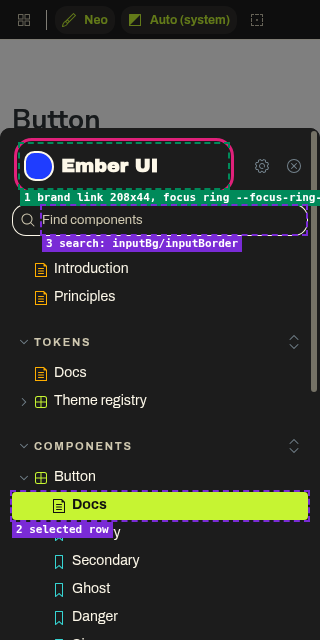
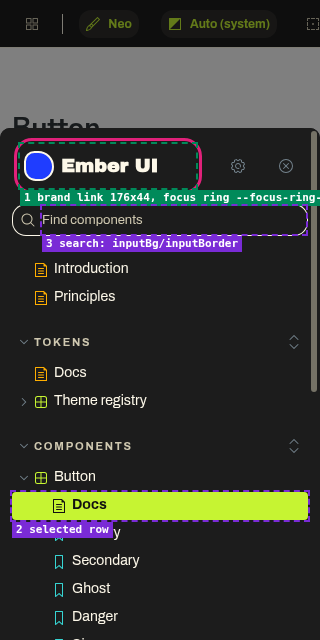
docs(storybook-brand): KI-2 boolean label fix, 44px hit areas below 600 (FU-SB-TOOLBAR-44), rulings
- manager-head.html: unselected boolean label uses --eb-boolean-label (neo --text-muted):
  9.18 light / 11.28 dark, up from #45's 3.39 / 5.11. Selected label unchanged (18.88 / 14.07).
- manager-head.html: below 600px, ::before 44x44 hit areas for every toolbar, bottom-bar,
  drawer-header and addon-panel Close control (title selectors, pinned to Storybook 8.6.19);
  bars 40 -> 48px; neo focus ring 3px offset 2. 600px and up unchanged.
- contrast.mjs: 56 pairs, 0 failures; 48 vs #45: 13 up, 35 same, 0 down.
- overrides.cjs: checks the overrides in a real build (104 checks pass; negative build exits 1).
- HANDOFF: section 4a, version pin line, KI-1 waived, KI-2 fixed, KI-3 waived at 600+,
  KI-4 filed as FU-STORYBOOK-DOCS-THEME, appPreviewBg non-blocking (CA). New shots at 320/599.
- Addon panel tabs left at 40px: flagged for a BED spike.

Supersedes f679274 and 1845ea6 as the head to review.

Author-bot: UX/UI Designer

diff --git a/docs/storybook-brand/mock/manager-head.html b/docs/storybook-brand/mock/manager-head.html
@@ -13,6 +13,41 @@
   /* The brand link: 44px target, neo focus ring (3px solid --focus-ring-color, 3px offset). Replaces Storybook's 1px colorSecondary border. */
   a:has(> .ember-brand) { display: inline-flex !important; align-items: center; min-height: 44px; min-width: 44px; margin: 0 !important; padding: 0 4px !important; border: 0 !important; border-radius: 12px !important; }
   a:has(> .ember-brand):focus-visible { outline: 3px solid var(--eb-focus) !important; outline-offset: 3px; }
+  /* KI-2: the boolean control's unselected label is Storybook's transparentize(.5, textColor), 3.39:1 light on the track.
+     Use neo --text-muted (via --eb-boolean-label) instead: #3d3d3d on #f3ecd2 is 9.18:1 light, #cfc8b0 on #111111 is 11.28:1 dark.
+     The selected label keeps Storybook's textColor (18.88 light, 14.07 dark). Selector targets Storybook 8.6.19's BooleanControl
+     markup (label > input[role=switch] + span[aria-hidden] False + span[aria-hidden] True); re-check it on any Storybook bump. */
+  label:has(> input[role="switch"]:checked) > span[aria-hidden="true"]:first-of-type,
+  label:has(> input[role="switch"]:not(:checked)) > span[aria-hidden="true"]:last-of-type { color: var(--eb-boolean-label) !important; }
+  /* FU-SB-TOOLBAR-44: 44px hit areas below 600px only; at 600 and up everything stays Storybook's 28px. Covers the top toolbar, the bottom
+     bar (navigation-menu and addon-panel toggles), the drawer header (About Storybook, Close menu) and the addon panel's Close button.
+     Storybook 8.6.19 gives these controls no role or aria-label, only title, so the selectors use title attributes plus the stable
+     .sb-bar and .sidebar-header classes (no hashed css-* classes). Method: a transparent ::before overlay grows each control's hit area
+     without changing what it paints (none of these controls has a ::before or ::after in 8.6.19, and all but the menu button are already
+     position: relative). 28px controls get inset -8px (44x44) and 8px side margins, so the pitch is at least 50px and neighbouring
+     overlays never overlap. The bars go from 40px to 48px because the top bar scrolls on x (overflow-y computes to hidden) and the addon
+     bar is overflow: hidden, either of which would clip a 44px overlay in 40px. The 216x40 menu button only needs 2px top and bottom. */
+  @media (max-width: 599px) {
+    main > .sb-bar,
+    .sb-bar:has(button[title="Open navigation menu"]),
+    .sb-bar:has(button[title="Close addon panel"]) { box-sizing: border-box; height: 48px; }
+    main > .sb-bar,
+    .sb-bar:has(button[title="Close addon panel"]) { padding-block: 4px; }
+    main > .sb-bar :is(button, a)[title],
+    .sb-bar button[title="Open addon panel"],
+    .sb-bar button[title="Close addon panel"],
+    .sidebar-header button:is([title="About Storybook"], [title="Close menu"]) { margin-inline: 8px; }
+    main > .sb-bar :is(button, a)[title]::before,
+    .sb-bar button[title="Open addon panel"]::before,
+    .sb-bar button[title="Close addon panel"]::before,
+    .sidebar-header button:is([title="About Storybook"], [title="Close menu"])::before { content: ""; position: absolute; inset: -8px; }
+    .sb-bar button[title="Open navigation menu"] { position: relative; }
+    .sb-bar button[title="Open navigation menu"]::before { content: ""; position: absolute; inset: -2px 0; }
+    .sb-bar :is(button, a)[title]:focus-visible,
+    .sidebar-header button:is([title="About Storybook"], [title="Close menu"]):focus-visible { outline: 3px solid var(--eb-focus) !important; outline-offset: 2px; }
+    /* The 40px-tall menu button sits 4px inside the 48px bar, so its ring uses offset 0 (3px ring, 1px to spare) to stay inside the bar. */
+    .sb-bar button[title="Open navigation menu"]:focus-visible { outline-offset: 0; }
+  }
   /* Reduced motion: Storybook 8.6's manager has no prefers-reduced-motion handling (mobile drawer slide, sidebar and control transitions). Neo's rule is motion off under reduce, so zero it here. */
   @media (prefers-reduced-motion: reduce) {
     *, *::before, *::after { transition-duration: 0s !important; transition-delay: 0s !important; animation-duration: 0s !important; animation-delay: 0s !important; animation-iteration-count: 1 !important; scroll-behavior: auto !important; }

diff --git a/docs/storybook-brand/mock/manager.ts b/docs/storybook-brand/mock/manager.ts
@@ -55,6 +55,7 @@ const CSS_VARS = {
   '--eb-blob': '--highlight',
   '--eb-focus': '--focus-ring-color',
   '--eb-selected-text': '--accent-contrast',
+  '--eb-boolean-label': '--text-muted',
 } as const;
 
 const build = (mode: Mode) => {

diff --git a/docs/storybook-brand/HANDOFF.md b/docs/storybook-brand/HANDOFF.md
@@ -4,10 +4,13 @@ Status: design spec, dev-ready. The builder implements it as-is. This card chang
 
 **Extends #45, doesn't compete with it.** [#45](https://github.com/balbonits/a11y-design-system/pull/45) (SB-MANAGER-AA, `fix/sb-manager-aa` @ `79f89b7`) already gives the manager an accessible neo-palette theme and runs axe on the manager page. This HANDOFF is a diff on top of #45:
 - The builder starts from #45's `.storybook/manager.ts` and `manager-head.html` on a new branch off main after #45 merges.
-- Every #45 contrast pass stays at or above its #45 ratio. The gate checks this pair by pair: 46 shared pairs, 11 up, 35 the same, 0 down.
+- Every #45 contrast pass stays at or above its #45 ratio. The gate checks this pair by pair: 48 shared pairs, 13 up, 35 the same, 0 down.
 - #45's own axe check (`scripts/a11y-manager.mjs`) runs against this spec built on #45: 8 runs, 0 failing (section 3).
+- Revision 3 (this commit, superseding `f679274` and `1845ea6`): the boolean-control label fix (Known issue 2, now fixed and gated), the 44px hit areas below 600px (FU-SB-TOOLBAR-44, section 4a, which folds into this card), and the rulings on Known issues 1, 3 and 4.
 
 Target: the live Storybook at https://jdilig.me/ux/design-system/storybook/ (Storybook 8.6.19, @storybook/core 8.6.19).
+**Version pin.** The `manager-head.html` overrides target Storybook 8.6.19's internal markup and selectors (the selected tree row, the boolean control's spans, the toolbar and drawer controls' `title` attributes, `.sb-bar` and `.sidebar-header`). `package.json` has `"storybook": "^8.6.19"` and the installed version is 8.6.19 (`@storybook/addon-controls` 8.6.14). Any Storybook bump must re-run, before merge: the contrast gate (`contrast.mjs`, 56 pairs today; the count grows as pairs are added), both override checks (`overrides.cjs`: the selected-row and boolean-label colors, and the hit areas), and #45's manager axe (`scripts/a11y-manager.mjs`).
+
 Identity: Ember's neo theme (`src/tokens.json` `themes.neo`, the same values as `src/themes/neo.css` that #45 mirrors). No new colors, fonts or logo.
 
 Files in this folder:
@@ -16,6 +19,7 @@ Files in this folder:
 - `mock/manager.ts` and `mock/manager-head.html` are the exact files to ship (#45's files plus this card).
 - `mock/manager.ts.diff` and `mock/manager-head.html.diff` are unified diffs from #45's files.
 - `theme-map.json` is the field-to-token map, the single source the gate reads.
+- `overrides.cjs` checks the `manager-head.html` overrides in a real build and exits 1 on any failure: the selected-row text, the boolean-control labels in both states and both modes, and the hit areas, focus rings and no-change-at-600 of section 4a.
 - `contrast.mjs` writes `CONTRAST.md` and exits 1 on any of: a ratio under the minimum, a pair below its #45 ratio, a token that doesn't resolve, or drift between `mock/manager.ts` and `theme-map.json`.
 - `shoot.cjs` and `mock/build.sh` produce the annotated `handoff/` shots from a scratch build of #45 plus `mock/`.
 
@@ -66,7 +70,7 @@ Color fields: #45's value (its `NEO` name and hex) next to the new neo token and
 - **A (in this spec):** `--color-bg` `#111111`, neo's dark page color.
 - **B:** keep #45's `#ffffff` via `--highlight-contrast`, which resolves to `#ffffff` in dark but means "text on highlight".
 
-Neither has a contrast pair, because this background only shows behind the preview iframe (axe excludes the iframe, and the gate stays 0 down either way). I recommend A, because B borrows a text token for a background.
+Neither has a contrast pair, because this background only shows behind the preview iframe (axe excludes the iframe, and the gate stays 0 down either way). I recommend A, because B borrows a text token for a background. Chief Architect ruled that this doesn't block the card and needs no contrast pair, since it's a canvas behind stories that set their own background; the pick is Creatives' call, and the spec ships A unless Creatives picks B (a one-token change in `theme-map.json` and `MAP`).
 
 Storybook keeps hard-coding the selected sidebar row text as `#FFFFFF`. #45 overrides it to `#111111` in dark only, and this spec sets it from `--accent-contrast` in both modes. Light is `#ffffff`, so nothing changes there; dark is `#111111`, the same as #45 (14.74, not the 15.1 #45's comment says).
 
@@ -79,6 +83,7 @@ CSS custom properties (`manager.ts` sets them on `<html>` from `src/tokens.json`
 | `--eb-blob` | Blob fill (neo .blob uses --highlight) | `--highlight` | `#c6f432` | `#1f3dff` |
 | `--eb-focus` | Brand link focus ring | `--focus-ring-color` | `#e0217a` | `#e0217a` |
 | `--eb-selected-text` | Selected sidebar row text and icon (#45 set #111111 in dark only; light stays Storybook's #ffffff) | `--accent-contrast` | `#ffffff` | `#111111` |
+| `--eb-boolean-label` | Boolean control's unselected label (Known issue 2; #45 kept Storybook's 50% `textColor`) | `--text-muted` | `#3d3d3d` | `#cfc8b0` |
 
 ## 2. Brand mark (new; #45 kept Storybook's)
 
@@ -86,7 +91,7 @@ CSS custom properties (`manager.ts` sets them on `<html>` from `src/tokens.json`
 - **Wordmark:** "Ember UI" in `--font-display` (Archivo Black 400), 1.2rem (19.2px), line-height 1, `--text`, no wrap.
 - **Blob:** 30x30px, `border-radius: 40% 60% 55% 45%`, fill `--highlight` (light lime `#c6f432`, dark blue `#1f3dff`), 2px `--border` outline. It's `aria-hidden` and decorative. The gap to the wordmark is .45rem.
 - **Accessible name:** with `brandImage: null` Storybook renders no `<img>`, so there's no alt attribute; the link's name is its text, "Ember UI". Verified in the build: name "Ember UI", href https://jdilig.me/ux/design-system, target _self.
-- **Link target:** at least 44x44px. Measured 219x44 at 1280 in both modes and 208x44 in the 320 drawer. `a:has(> .ember-brand)` replaces Storybook's own brand link styles (margin -3px -4px, a 1px transparent border, 3px radius, and a 1px `colorSecondary` border on focus).
+- **Link target:** at least 44x44px. Measured 219x44 at 1280 in both modes and 176x44 in the 320 drawer. `a:has(> .ember-brand)` replaces Storybook's own brand link styles (margin -3px -4px, a 1px transparent border, 3px radius, and a 1px `colorSecondary` border on focus).
 - **Focus ring:** neo's ring, 3px solid `--focus-ring-color` `#e0217a` with a 3px offset and a 12px corner, on `:focus-visible` only. Light is 4.24 vs `#fdf8e9` and 4.20 vs the wordmark; dark is 4.20 vs `#111111` and 4.24 vs the wordmark (3:1 min).
 
 ## 3. Contrast and axe
@@ -95,15 +100,31 @@ CSS custom properties (`manager.ts` sets them on `<html>` from `src/tokens.json`
 
 Output:
 ```
-52 pairs checked, 0 failures; 46 pairs compared with #45: 11 up, 35 same, 0 down
+56 pairs checked, 0 failures; 48 pairs compared with #45: 13 up, 35 same, 0 down
 ```
 Exit 0. Full table with both columns: [CONTRAST.md](CONTRAST.md).
+
+New in revision 3 (4 pairs, 2 per mode):
+
+| Mode | Pair | #45 | New |
+|---|---|---|---|
+| light | Boolean unselected label, `--eb-boolean-label` `#3d3d3d` on `booleanBg` `#f3ecd2` | 3.39 (50% `#111111` composited, `#827f72`) | 9.18, pass, up |
+| dark | Boolean unselected label, `--eb-boolean-label` `#cfc8b0` on `booleanBg` `#111111` | 5.11 (50% `#fdf8e9` composited, `#87857d`) | 11.28, pass, up |
+| light | Toolbar control focus ring below 600px, `--eb-focus` `#e0217a` on `barBg` `#ffffff` | new | 4.50, pass |
+| dark | Toolbar control focus ring below 600px, `--eb-focus` `#e0217a` on `barBg` `#1c1c1c` | new | 3.79, pass |
+
+The boolean selected label was already in the gate and keeps Storybook's `textColor` (no override): 18.88 light (`#111111` on `#ffffff`) and 14.07 dark (`#fdf8e9` on `#272727`), the same as #45.
+
+Measured in the real build (`overrides.cjs`, Button "Disabled" story, Controls panel, 1280, with the control in both states): light unselected `#3d3d3d` on `#f3ecd2` 9.18 and selected `#111111` on `#ffffff` 18.88; dark unselected `#cfc8b0` on `#111111` 11.28 and selected `#fdf8e9` on `#272727` 14.07. These match the gate.
+
+`overrides.cjs` result on the #45 + `mock/` build: "all override checks pass", exit 0 (104 checks).
 
 Negative controls (scratch copies):
 - `theme-map.json` and `manager.ts` out of sync: FAIL drift, exit 1.
 - `textMutedColor` set to `--accent-soft` in both modes: 2 FAIL rows per mode (4 total), exit 1.
 - `textMutedColor` set to `--border-subtle` (5.02 to 5.62, so it clears 4.5 but is under #45's 10.18 to 11.28): 4 "FAIL below #45" rows, exit 1.
 - A token that doesn't exist: a FAIL lint line, exit 1, with no stack trace.
+- `overrides.cjs` against a copy of the build with the boolean override and the below-600 block removed: exit 1. The 4 boolean rows fail at exactly #45's values (`#827f72` on `#f3ecd2` 3.39 light, `#87857d` on `#111111` 5.11 dark), and every below-600 bar and hit-area row fails (88 failures in total).
 
 axe: #45's `scripts/a11y-manager.mjs` runs on a build of `fix/sb-manager-aa` @ `79f89b7` with `mock/` copied in (light and dark, 1280 and 375, story and docs page). Result: "axe manager: 8 runs (light + dark x 1280/375 x story + docs page), 0 failing", the same as #45.
 
@@ -113,11 +134,45 @@ Storybook's layout doesn't change; only the theme and brand do.
 
 | Width | Behavior | Brand |
 |---|---|---|
-| 320-599 | Storybook's mobile layout: preview full width, and a bottom bar with the menu button and the current story's breadcrumb. The sidebar opens as a full-height drawer from the menu button. | The bottom bar keeps Storybook's breadcrumb, unchanged. The brand is the first item in the drawer, top-left (blob plus wordmark, a 44px tall link), with the settings and close buttons at right. At 320 the link is 208x44 and the wordmark doesn't wrap. Shots: `sb-brand-320-*.png`. |
+| 320-599 | Storybook's mobile layout: preview full width, and a bottom bar with the menu button and the current story's breadcrumb. The sidebar opens as a full-height drawer from the menu button. | The bottom bar keeps Storybook's breadcrumb, unchanged. The brand is the first item in the drawer, top-left (blob plus wordmark, a 44px tall link), with the settings and close buttons at right. At 320 the link is 176x44 (the 44px hit areas of the settings and close buttons, section 4a, take 32px more of the header) and the wordmark doesn't wrap. Shots: `sb-brand-320-*.png`. |
 | 600-1023 | The sidebar starts collapsed (`navSize: 0`); that block from main and #45 is kept verbatim. The toolbar's "Show sidebar" button brings it back. | Hidden while the sidebar is collapsed; with it shown, the same as at 1024+. Shots: `sb-brand-768-*.png`. |
 | 1024+ | Sidebar open at Storybook's default width, toolbar on top. | Top-left of the sidebar, a 219x44 link. Shots: `sb-brand-1280-*.png`, with the brand link in its focus-visible state. |
 
-Touch targets: the brand link is at least 44x44 at every width. Storybook's own toolbar buttons are 28x28 (Known issue 3).
+Touch targets: the brand link is at least 44x44 at every width. Below 600px every toolbar, bottom-bar, drawer-header and addon-panel control gets a 44x44 hit area (section 4a). At 600 and up Storybook's controls stay 28x28 (Known issue 3, waived there).
+
+## 4a. 44px hit areas below 600px (FU-SB-TOOLBAR-44, folded into this card)
+
+Scope: 44x44 hit areas at widths up to 599px only. At 600px and up nothing changes: the toolbar stays Storybook's 28px controls in a 40px bar, which passes WCAG 2.5.8 AA (24px), and Chief Architect waived neo's 44px there (Known issue 3). The visual size of every control stays the same at every width.
+
+Controls present below 600 in Storybook 8.6.19 (measured in this build at 320 and 599). None has a role or `aria-label`; each has a `title`, which the selectors use:
+
+| Where | Control (`title`) | Visual | Hit area | Method |
+|---|---|---|---|---|
+| Top toolbar (`main > .sb-bar`, scrolls sideways) | Remount component, Zoom in, Zoom out, Reset zoom, Change the background of the preview, Apply a grid to the preview, Change the size of the preview, Enable measure, Apply outlines to the preview, Vision simulator, Select CSS pseudo states, Open canvas in new tab (a link), Copy canvas link | 28x28 | 44x44 | `::before` overlay, `inset: -8px`, plus `margin-inline: 8px` |
+| Top toolbar | Theme ("Neo"), Color mode ("Auto (system)") | 60x28, 116x28 | 76x44, 132x44 | the same overlay; only the height needed it |
+| Bottom bar (`.sb-bar` holding the menu button) | Open navigation menu (the drawer toggle, with the breadcrumb) | 216x40 | 216x44 | `::before` overlay, `inset: -2px 0` (it was `position: static`, so it gets `position: relative`) |
+| Bottom bar | Open addon panel | 28x28 | 44x44 | `::before` overlay, `inset: -8px`, plus `margin-inline: 8px` |
+| Drawer header (`.sidebar-header`) | About Storybook, Close menu | 28x28 | 44x44 | the same as the 28px toolbar controls |
+| Addon panel bar (`.sb-bar` holding the Close button) | Close addon panel | 28x28 | 44x44 | the same |
+
+Not present below 600: Show sidebar and Go full screen (Storybook only renders them at 600 and up), so they keep 28px with the rest of the desktop toolbar.
+
+Why a `::before` overlay, and not the other two methods:
+- **min-size** would grow the button box itself, and Storybook paints the hover and active chip on that box, so the visible chip would grow from 28 to 44. That changes the visual size.
+- **Padding with a negative margin** keeps the layout box the same, but the controls sit on a 34px pitch (28px plus a 6px gap), so 44px areas would overlap their neighbours, and an overlapping area makes a tap ambiguous.
+- **The overlay** paints nothing and is part of the button for hit-testing, so a tap anywhere in the 44px square activates that control. In 8.6.19 none of these controls has a `::before` or `::after`, and all except the menu button are already `position: relative`. The 8px side margins move the pitch to 50px or more (Storybook's separators add space), so neighbouring overlays never overlap.
+
+Bars: the top bar scrolls sideways (`overflow-x: auto`, so `overflow-y` computes to `hidden`) and the addon panel bar is `overflow: hidden`, so a 44px overlay would be clipped in their 40px. Below 600 both bars, and the bottom bar for consistency, become 48px (`box-sizing: border-box`, plus 4px top and bottom padding on the top and addon bars to center the 40px content row). The preview gets 8px shorter at the top and the bottom; nothing reflows sideways and nothing clips. The top toolbar's scroll width goes from 680 to 920px, which it already scrolls.
+
+Focus ring: neo's `--focus-ring-color` (via `--eb-focus`), 3px solid, offset 2px, on `:focus-visible`. On `barBg` it's 4.50 light and 3.79 dark (3:1 or better, in the gate). Ring plus offset is 5px, so a 28px control's ring is 38px tall and fits inside the 48px bar and the 44px drawer header. The 40px menu button uses offset 0 (a 46px ring in a 48px bar), so it isn't clipped either.
+
+Verified by `overrides.cjs` at 320 and 599: every control above has a hit area of at least 44x44 inside its bar or header, with no overlap between neighbours; every focus ring is `:focus-visible`, solid `#e0217a`, and unclipped; and there's no page-level sideways overflow. At 600 and 1280 every bar is 40px with 28px controls and no overlay. #45's axe at 375 (story and docs page, both modes) still passes.
+
+Selectors: Storybook 8.6.19 has no `[role=toolbar]` and no `aria-label` on these controls, so role and aria selectors aren't available. The spec uses `title` attributes, plus `.sb-bar` and `.sidebar-header`, which are Storybook's stable unhashed class names. It never uses the hashed `css-*` classes. All of it is pinned to 8.6.19 (see the version pin at the top).
+
+Not measured, so this part would mean guessing at Storybook internals (for Creatives, and a BED spike):
+- **The addon panel's tabs** (Controls, Actions, Accessibility, and the "Addons" overflow menu) are 40px tall, inside a container with `overflow: hidden` whose overflow menu Storybook drives from measured tab widths in JS. A 44px overlay there would be clipped by that container, and changing tab sizes might change which tabs collapse into the menu. I left them at 40px. The spike should find out whether making the tab row 48px tall (with `inset: -2px 0` on each tab) keeps Storybook's tab-collapse logic correct at 320 and 599.
+- **The drawer's search field** (28px tall) and **sidebar tree rows**, and the Controls panel's own inputs, aren't toolbar controls and aren't in this card. They'd go in a separate follow-up if wanted.
 
 ## 5. Motion
 
@@ -129,11 +184,14 @@ Storybook 8.6's manager has no `prefers-reduced-motion` handling (#45 didn't add
 
 | File | What it shows |
 |---|---|
-| `sb-brand-320-light.png`, `sb-brand-320-dark.png` | Mobile drawer open: 1 the brand link (208x44) with its focus ring, 2 the selected row, 3 the search field |
-| `sb-brand-768-light.png`, `sb-brand-768-dark.png` | Collapsed sidebar: 1 the toolbar, 2 Show sidebar (28x28, Known issue 3) |
+| `sb-brand-320-light.png`, `sb-brand-320-dark.png` | Mobile drawer open: 1 the brand link (176x44) with its focus ring, 2 the selected row, 3 the search field |
+| `sb-brand-768-light.png`, `sb-brand-768-dark.png` | Collapsed sidebar: 1 the toolbar, 2 Show sidebar (28x28, unchanged at 600 and up, Known issue 3) |
 | `sb-brand-1280-light.png`, `sb-brand-1280-dark.png` | Desktop: 1 the brand link (219x44) with its focus ring, 2 the search field, 3 the selected row, 4 the toolbar |
+| `sb-toolbar-hit-320-light.png`, `sb-toolbar-hit-320-dark.png`, `sb-toolbar-hit-599-light.png`, `sb-toolbar-hit-599-dark.png` | Section 4a, story view: dashed green boxes are each control's 44px hit area in the 48px top and bottom bars; 1 Zoom in with its focus ring; 2 the bars |
+| `sb-toolbar-hit-320-drawer-light.png`, `sb-toolbar-hit-599-drawer-light.png` | Section 4a, drawer open: 1 About Storybook and Close menu with 44x44 hit areas |
+| `sb-toolbar-hit-320-addons-light.png`, `sb-toolbar-hit-599-addons-light.png` | Section 4a, addon panel open: 1 the 48px addon bar with Close addon panel at 44x44; the tabs stay 40px (BED spike) |
 
-The annotation boxes (green for targets, purple for color callouts) are an overlay added at capture time, not part of the design. The docs content inside the preview iframe isn't part of this card (Known issue 4).
+The annotation boxes (green for targets and hit areas, purple for color callouts) are an overlay added at capture time, not part of the design. The docs content inside the preview iframe isn't part of this card (Known issue 4).
 
 ## 7. For the builder (BED, a new branch off main after #45 merges)
 
@@ -143,12 +201,12 @@ The annotation boxes (green for targets, purple for color callouts) are an overl
    - **Replaced:** #45's `NEO` hex object, `shared`, and the two `create()` literals become `MAP` (field to `[lightToken, darkToken]`, read from `src/tokens.json` `themes.neo`, an esbuild JSON import) and `build(mode)`, which returns `create({ base, brand…, fonts and radii from themes.neo.shape, ...colors })`. Then `themes = { light: build('light'), dark: build('dark') }`. This also fixes #45's own note that the hexes had to be hand-mirrored.
    - **Added:**
      - the 4 `@fontsource` CSS imports (archivo-black 400, archivo 400 and 700, jetbrains-mono 400). They're already dependencies, used by preview.tsx, and the 8.6 manager build bundles them; verified that "Archivo Black" loads.
-     - `CSS_VARS` and `applyVars(mode)`, which set the five `--eb-*` vars on `document.documentElement`.
+     - `CSS_VARS` and `applyVars(mode)`, which set the six `--eb-*` vars on `document.documentElement`.
      - the dark-mode switch: `mq = matchMedia('(prefers-color-scheme: dark)')`. At load it calls `applyVars(mode)` and `addons.setConfig({ theme: themes[mode] })`, which replaces #45's one-shot `prefersDark` line. On `mq`'s `change` event it calls `applyVars(mode)` and `addons.setConfig({ theme: themes[mode] })` again, so the manager re-themes without a reload.
 3. **`manager-head.html`, against #45's file:**
    - **Kept:** the title, and #45's selector `#storybook-explorer-tree [data-selected="true"]` (plus its `svg`).
    - **Changed:** that rule's color moves out of the dark-only media query to `var(--eb-selected-text)` in both modes, with `!important`. Light resolves to `#ffffff`, so it's unchanged.
-   - **Added:** `.ember-brand`, `.ember-brand__blob`, the `a:has(> .ember-brand)` 44px target and focus ring, and the reduced-motion block.
+   - **Added:** `.ember-brand`, `.ember-brand__blob`, the `a:has(> .ember-brand)` 44px target and focus ring, the boolean-control label rule (`label:has(> input[role="switch"]…) > span[aria-hidden="true"]`, unselected span only, `color: var(--eb-boolean-label) !important`), the `@media (max-width: 599px)` hit-area block (section 4a), and the reduced-motion block.
 4. Keep `theme-map.json` and `MAP`/`CSS_VARS` identical, because `contrast.mjs` fails on drift. If the builder adds it to CI, the command is `node docs/storybook-brand/contrast.mjs`.
 5. Check the real build:
    - `npm run test:a11y`, including #45's manager axe: 8 runs, 0 failing.
@@ -157,14 +215,17 @@ The annotation boxes (green for targets, purple for color callouts) are an overl
    - Toggling the OS dark mode re-themes without a reload.
    - Tab reaches the brand link with a pink 3px ring, and the link is 44px tall.
    - At 600-1023 the sidebar starts collapsed.
+   - `NODE_PATH=<playwright-core dir> node docs/storybook-brand/overrides.cjs http://127.0.0.1:<port>/` passes ("all override checks pass", exit 0).
+   - Below 600, every control in section 4a is tappable across its 44px square and nothing in the bars is clipped; at 600 and up the toolbar looks exactly as it does today.
 
 Reproduce: `bash docs/storybook-brand/mock/build.sh <installed node_modules> [base-ref]`. The base ref defaults to `origin/fix/sb-manager-aa`; use `origin/main` once #45 merges. Serve the printed `out` on 127.0.0.1:8961, then run:
 - `node scripts/a11y-manager.mjs http://127.0.0.1:8961` from the scratch dir
+- `NODE_PATH=<playwright-core dir> node docs/storybook-brand/overrides.cjs http://127.0.0.1:8961/`
 - `NODE_PATH=<playwright-core dir> node docs/storybook-brand/shoot.cjs http://127.0.0.1:8961/`
 
-## Known issues (Storybook internals `create()` can't reach; the same under #45; for a Creatives and CA ruling)
+## Known issues and rulings (Storybook internals `create()` can't reach)
 
-1. **Sidebar node-type icons:** Storybook colors them itself: document `#ff8300`, story `#37d5d3`, component `--text-muted` at 60% opacity. On light cream, document is 2.33 and story is 1.70; on dark ink they pass (6.45 to 10.45 measured earlier). Each sits next to a text label that carries the meaning, so they're treated as decorative (1.4.11 doesn't require them), and #45's axe passes with them. They're not in the gate. A fix, if wanted, is one `manager-head.html` rule mapping them to `--text-muted`.
-2. **Boolean control (Controls panel, canvas view only):** Storybook hard-codes the unselected label as `textColor` at 50% alpha. Light is `#827f72` on `#f3ecd2`, 3.39 (fails 4.5); dark is `#87857d` on `#111111`, 5.11. The selected segment vs its track is 1.18 in light and 1.26 in dark, where a 1px `appBorderColor` ring (cream on `#272727`, 14.07) marks the selected segment. These are #45's values too (`booleanBg` and `booleanSelectedBg` are unchanged), so this card doesn't make them worse. A fix, if wanted, is a `manager-head.html` override on the unselected span (`color: var(--eb-text)`). Not in the gate.
-3. **Toolbar and Show sidebar buttons** are 28x28, Storybook's size. That passes WCAG 2.5.8 AA (24px) but is under neo's 44px `--target-min`. Enlarging them means overriding Storybook's toolbar layout, which is outside this card.
-4. **The preview iframe's docs and canvas content** keeps the preview's styling (Ember components plus Storybook's default docs theme, which stays light in dark mode). Theming it is `preview.tsx` `parameters.docs.theme`, a separate card.
+1. **Sidebar node-type icons, waived.** Storybook colors them itself: document `#ff8300`, story `#37d5d3`, component `--text-muted` at 60% opacity. On light cream, document is 2.33 and story is 1.70; on dark ink they pass (6.45 to 10.45). Each icon sits next to a text label that carries the meaning. Chief Architect waived this as decorative under WCAG 1.4.11 (Chief Architect review of #52, 2026-11-11 12:52 AM PT). Not in the gate, and #45's axe passes with them.
+2. **Boolean control label, fixed in this revision.** Storybook 8.6.19 paints the unselected label as `transparentize(.5, textColor)`: `#827f72` on `#f3ecd2` is 3.39 in light (under 4.5) and `#87857d` on `#111111` is 5.11 in dark. #45 doesn't override it. `manager-head.html` now sets the unselected span to `var(--eb-boolean-label)` (neo `--text-muted`): 9.18 light and 11.28 dark. The selected span keeps Storybook's `textColor`, 18.88 light and 14.07 dark. I used `--text-muted` rather than `--text` so the selected label still reads as the stronger of the two. Both labels are in the gate in both modes and measured in the real build (section 3). The selector targets Storybook 8.6.19's `BooleanControl` markup (`label` > `input[role="switch"]`, then two `span[aria-hidden="true"]`, False then True), so it's covered by the version pin. The segment-vs-track difference (1.18 light, 1.26 dark) is unchanged from #45; the selected segment is also marked by Storybook's ring and the stronger label.
+3. **Toolbar controls at 600px and up, waived; below 600, specced.** At 600 and up they stay Storybook's 28x28, which passes WCAG 2.5.8 AA (24px). Chief Architect waived neo's 44px `--target-min` there, tracked against the 44px aim as FU-SB-TOOLBAR-44. Below 600, FU-SB-TOOLBAR-44 now folds into this card (Creatives, from CTE): section 4a gives every control there a 44x44 hit area. Open for a BED spike: the addon panel tabs (section 4a).
+4. **The preview iframe's docs and canvas content, out of scope; filed as FU-STORYBOOK-DOCS-THEME.** It keeps the preview's styling (Ember components plus Storybook's default docs theme, which stays light in dark mode). Theming it is `preview.tsx` `parameters.docs.theme`, a separate card.

diff --git a/docs/storybook-brand/CONTRAST.md b/docs/storybook-brand/CONTRAST.md
@@ -1,6 +1,6 @@
 # Storybook brand contrast
 
-52 pairs checked, 0 failures. Text 4.5:1, UI and focus 3:1 (WCAG 2.2 AA 1.4.3, 1.4.11). Each pair #45 (SB-MANAGER-AA, 79f89b7) also has must be at or above its #45 ratio; "new" means #45 has no such pair (brand mark). Generated by contrast.mjs from src/tokens.json (themes.neo) via theme-map.json; mock/manager.ts is checked against the same map.
+56 pairs checked, 0 failures. Text 4.5:1, UI and focus 3:1 (WCAG 2.2 AA 1.4.3, 1.4.11). Each pair #45 (SB-MANAGER-AA, 79f89b7) also has must be at or above its #45 ratio; "new" means #45 has no such pair (brand mark). Generated by contrast.mjs from src/tokens.json (themes.neo) via theme-map.json; mock/manager.ts is checked against the same map.
 
 | Mode | Kind | Where | Foreground | Background | Min | #45 ratio | New ratio | Result |
 |---|---|---|---|---|---|---|---|---|
@@ -17,7 +17,8 @@
 | light | text | Sidebar row text on hover (derived) | textColor `#111111` | tree hover lighten(.45) `#ffffff` | 4.5 | 18.88 | 18.88 | pass, same |
 | light | text | Inverse text (tooltips, inverse surfaces) | textInverseColor `#ffffff` | textColor `#111111` | 4.5 | 18.88 | 18.88 | pass, same |
 | light | text | Accent text and links in panels (colorSecondary) | colorSecondary `#1f3dff` | appContentBg `#ffffff` | 4.5 | 6.63 | 6.63 | pass, same |
-| light | text | Boolean control selected label | textColor `#111111` | booleanSelectedBg `#ffffff` | 4.5 | 18.88 | 18.88 | pass, same |
+| light | text | Boolean control selected label (Storybook default, no override) | textColor `#111111` | booleanSelectedBg `#ffffff` | 4.5 | 18.88 | 18.88 | pass, same |
+| light | text | Boolean control unselected label (--eb-boolean-label, manager-head.html; #45 is 50% textColor on the track) | --eb-boolean-label `#3d3d3d` | booleanBg `#f3ecd2` | 4.5 | 3.39 | 9.18 | pass, up |
 | light | ui | Sidebar and panel borders | appBorderColor `#111111` | appBg `#fdf8e9` | 3 | 5.02 | 17.79 | pass, up |
 | light | ui | Panel borders on content | appBorderColor `#111111` | appContentBg `#ffffff` | 3 | 5.33 | 18.88 | pass, up |
 | light | ui | Input border | inputBorder `#111111` | inputBg `#ffffff` | 3 | 5.33 | 18.88 | pass, up |
@@ -28,6 +29,7 @@
 | light | ui | Brand mark outline (blob border) | --eb-border `#111111` | appBg `#fdf8e9` | 3 | new | 17.79 | pass |
 | light | focus | Brand link focus ring | --eb-focus `#e0217a` | appBg `#fdf8e9` | 3 | new | 4.24 | pass |
 | light | focus | Brand link focus ring vs wordmark | --eb-focus `#e0217a` | --eb-text `#111111` | 3 | new | 4.20 | pass |
+| light | focus | Toolbar control focus ring below 600px (manager-head.html) | --eb-focus `#e0217a` | barBg `#ffffff` | 3 | new | 4.50 | pass |
 | light | focus | Storybook's own focus border (colorSecondary) in toolbar | colorSecondary `#1f3dff` | barBg `#ffffff` | 3 | 6.63 | 6.63 | pass, same |
 | light | focus | Storybook's own focus border (colorSecondary) in sidebar | colorSecondary `#1f3dff` | appBg `#fdf8e9` | 3 | 6.24 | 6.24 | pass, same |
 | dark | text | Sidebar tree text, brand wordmark | textColor `#fdf8e9` | appBg `#111111` | 4.5 | 17.79 | 17.79 | pass, same |
@@ -43,7 +45,8 @@
 | dark | text | Sidebar row text on hover (derived) | textColor `#fdf8e9` | tree hover darken(.35) `#556e06` | 4.5 | 5.47 | 5.47 | pass, same |
 | dark | text | Inverse text (tooltips, inverse surfaces) | textInverseColor `#111111` | textColor `#fdf8e9` | 4.5 | 17.79 | 17.79 | pass, same |
 | dark | text | Accent text and links in panels (colorSecondary) | colorSecondary `#c6f432` | appContentBg `#1c1c1c` | 4.5 | 13.30 | 13.30 | pass, same |
-| dark | text | Boolean control selected label | textColor `#fdf8e9` | booleanSelectedBg `#272727` | 4.5 | 14.07 | 14.07 | pass, same |
+| dark | text | Boolean control selected label (Storybook default, no override) | textColor `#fdf8e9` | booleanSelectedBg `#272727` | 4.5 | 14.07 | 14.07 | pass, same |
+| dark | text | Boolean control unselected label (--eb-boolean-label, manager-head.html; #45 is 50% textColor on the track) | --eb-boolean-label `#cfc8b0` | booleanBg `#111111` | 4.5 | 5.11 | 11.28 | pass, up |
 | dark | ui | Sidebar and panel borders | appBorderColor `#fdf8e9` | appBg `#111111` | 3 | 5.62 | 17.79 | pass, up |
 | dark | ui | Panel borders on content | appBorderColor `#fdf8e9` | appContentBg `#1c1c1c` | 3 | 5.07 | 16.05 | pass, up |
 | dark | ui | Input border | inputBorder `#fdf8e9` | inputBg `#111111` | 3 | 5.62 | 17.79 | pass, up |
@@ -54,5 +57,6 @@
 | dark | ui | Brand mark outline (blob border) | --eb-border `#fdf8e9` | appBg `#111111` | 3 | new | 17.79 | pass |
 | dark | focus | Brand link focus ring | --eb-focus `#e0217a` | appBg `#111111` | 3 | new | 4.20 | pass |
 | dark | focus | Brand link focus ring vs wordmark | --eb-focus `#e0217a` | --eb-text `#fdf8e9` | 3 | new | 4.24 | pass |
+| dark | focus | Toolbar control focus ring below 600px (manager-head.html) | --eb-focus `#e0217a` | barBg `#1c1c1c` | 3 | new | 3.79 | pass |
 | dark | focus | Storybook's own focus border (colorSecondary) in toolbar | colorSecondary `#c6f432` | barBg `#1c1c1c` | 3 | 13.30 | 13.30 | pass, same |
 | dark | focus | Storybook's own focus border (colorSecondary) in sidebar | colorSecondary `#c6f432` | appBg `#111111` | 3 | 14.74 | 14.74 | pass, same |
